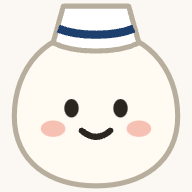
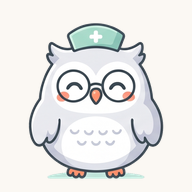
feat: キャラクターをナースキャップのフクロウに（笑顔・困り顔・喜び）、アプリのアイコンも同じ絵に

Changed region(s): [[0.0625, 0.0, 0.9375, 1.0], [0.5, 0.3438, 0.5312, 0.375]]

diff --git a/index.html b/index.html
@@ -2,7 +2,7 @@
 <html lang="ja">
   <head>
     <meta charset="UTF-8" />
-    <link rel="icon" type="image/svg+xml" href="/favicon.svg" />
+    <link rel="icon" type="image/png" href="/favicon.png" />
     <link rel="apple-touch-icon" href="/apple-touch-icon.png" />
     <link rel="manifest" href="/manifest.webmanifest" />
     <meta name="apple-mobile-web-app-title" content="看護トリアージ" />

diff --git a/public/sw.js b/public/sw.js
@@ -21,7 +21,7 @@ const MAX_ASSETS = 80
 const NAVIGATE_TIMEOUT = 4000
 const STATIC_FILES = [
   '/manifest.webmanifest',
-  '/favicon.svg',
+  '/favicon.png',
   '/apple-touch-icon.png',
   '/icon-192.png',
   '/icon-512.png',

diff --git a/src/assets/chara/README.md b/src/assets/chara/README.md
@@ -1,18 +1,24 @@
 # キャラクターの画像
 
-ここに次の3枚を置くと、ビルド時に自動で読み込まれて仮の SVG と差し替わります。
-1枚でも置けば、その表情だけ差し替わります（ないものは仮の SVG のまま）。
+ナースキャップのフクロウ。ユーザーが用意した絵（8つの表情）から、背景を透明にして切り出したもの。
+ここに置いた `normal.png`・`worry.png`・`happy.png` が、ビルド時に自動で読み込まれる（ないものは `Chara.tsx` の仮の SVG）。
 
-| ファイル名   | 表情     | 出る場面                                     |
-| ------------ | -------- | -------------------------------------------- |
-| `normal.png` | ふつう   | 黒・赤の課題がないときのホーム               |
-| `worry.png`  | 心配     | 今は使っていない（あとで使うときのため）     |
-| `happy.png`  | うれしい | 課題がぜんぶ片づいた・完了したときのトースト |
+| ファイル名   | 表情               | 出る場面                                                           |
+| ------------ | ------------------ | ------------------------------------------------------------------ |
+| `normal.png` | 笑顔（にこにこ）   | ふだんのホーム                                                     |
+| `worry.png`  | 困り顔（うーん）   | 締切過ぎ・赤の課題があるときのホーム                               |
+| `happy.png`  | 喜び（やったー！） | 今日のぶんが終わった・課題がぜんぶ片づいた・完了したときのトースト |
 
-- 透過 PNG、正方形（512×512px 推奨）
-- 生成り色（`#fbf8f3`）の背景に乗るので、背景は透過にしてください
+- 透過 PNG、正方形 256×256px（いちばん大きく出すのが 72px なので、iPhone の3倍の画面でも足りる大きさ）
+- どの表情も同じ大きさ・足もとの位置にそろえてある（表情が変わっても、フクロウが動かないように）
+
+## まだ使っていない表情（`extra/`）
+
+`extra/` に、ほかの表情も 512×512px で取ってある（アプリには読み込まれない）。
+応援（`cheer`）・驚き（`idea`）・疲れ（`tired`）・感謝（`thanks`）・焦り（`panic`）と、上の3つの元の大きさのもの。
+使うときは 256px に縮めてこのフォルダに置き、`Chara.tsx` の `Mood` に足す。
 
 ## アプリのアイコン
 
-ブラウザのタブのアイコン（`public/favicon.svg`）と、iPhone のホーム画面のアイコン（`public/apple-touch-icon.png`、180×180px、生成り色の背景）は、仮キャラクターの「ふつうの顔」で作っています。
-`normal.png` を用意したら、この2つも同じ絵に差し替えてください（ホーム画面のアイコンは透過にせず、背景を生成り色 `#fbf8f3` で塗ってください。iOS は透過部分を黒く塗るため）。
+`public/` の `apple-touch-icon.png`（180px）・`icon-192.png`・`icon-512.png`・`icon-maskable-512.png`（丸く切られても欠けないよう小さめ）・`favicon.png`（ブラウザのタブ、64px・透過）は、笑顔の絵から作っている。
+ホーム画面のアイコンは透過にせず、生成り色（`#fbf8f3`）で塗る（iOS は透過部分を黒く塗るため）。

diff --git a/CLAUDE.md b/CLAUDE.md
@@ -44,17 +44,12 @@
 - キーボードが出たら、`Sheet` をキーボードの高さだけ持ち上げ、押した入力欄がシートの中で見える位置までずらす（`keyboardInset.ts`。visualViewport で高さを測る）
 - 長押しで文字選択・iPhone のメニューを出さない（`index.css` で全体に `user-select: none`・`-webkit-touch-callout: none`。入力欄だけ戻す。画像は `pointer-events: none` でタップを外側に渡す）
 
-## キャラクター（いまは仮）
+## キャラクター
 
-- キャラクターは、ホームのいちばん上（今日のぶんの横。顔が変わる）、空いた画面、完了のトーストに出す（吹き出しで話しかけるのはやめた）
-- 絵は**仮の SVG**（丸い体にナースキャップ。十字は使わない）。`src/components/Chara.tsx` の `Placeholder`
-- 本番の絵はユーザーが自分で用意する。`src/assets/chara/{normal,worry,happy}.png`（透過・正方形 512px）を置けば自動で差し替わる。手順は `src/assets/chara/README.md`
-- 絵を勝手に描き起こしたり、別のキャラクターに変えたりしない
-
-## アプリのアイコン（いまは仮）
-
-- `public/favicon.svg` と `public/apple-touch-icon.png`（180×180、生成り色の背景）は、仮キャラクターの「ふつうの顔」
-- `normal.png` が届いたら、この2つも同じ絵に差し替える。ホーム画面用は透過にせず生成り色で塗る（iOS は透過部分を黒くする）
+- ナースキャップのフクロウ（ユーザーが用意した絵）。ホームのいちばん上（今日のぶんの横。顔が変わる）、空いた画面、完了のトーストに出す
+- 表情：ふつう＝笑顔、心配（黒・赤があるとき）＝困り顔、うれしい（今日のぶんが終わった・片づいた・完了）＝喜び。`src/assets/chara/{normal,worry,happy}.png`（透過・256px）。ほかの表情（応援・驚き・疲れ・感謝・焦り）は `src/assets/chara/extra/` に取ってある（アプリには読み込まれない）。くわしくは `src/assets/chara/README.md`
+- 絵は、背景を透明にし、まわりの飾り（キラキラ・音符など）を外して、表情ごとに同じ大きさ・足もとの位置にそろえて切り出した。絵そのものを描き変えたり、別のキャラクターにしたりしない
+- アプリのアイコン（`public/` の apple-touch-icon・icon-192/512・maskable・favicon.png）は笑顔の絵。ホーム画面用は透過にせず生成り色で塗る
 
 ## 実習スケジュール機能（実装済み）
 

diff --git a/SPEC.md b/SPEC.md
@@ -215,7 +215,7 @@ score    = (0.6 × min(ratio, 2)/2 + 0.4 × 1/(1 + max(days, 0))) × w × imp ×
 - **折り返し**：長い1文を折り返させず、ことがらごとに1行に分ける（くわしいページの根拠は「あと約1.6h」／「締切までに使えるのは約3.7h」／太字の「…足りない」）。それでも折り返す文は、文節の切れ目でだけ折り返す（`ui-text` と `Phrase`。BudouX で文節に分ける）。日付や「あと21時間」は途中で切らない。つぎにやるのカードは高さをそろえ、ボタンは下にそろえる。iPhone と同じ WebKit で、360・375・393px の幅で確かめる
 - **フォント**：システムフォント（ヒラギノ → Noto Sans JP）
 - **動き**：`motion.ts` の決まり（0.3秒・16px・ease-out、カードは0.08秒ずつ）。押すと0.15秒で97%に縮む。「視差効果を減らす」の人には控えめにする
-- **キャラクター**：ホームのいちばん上（今日のぶんの横。顔が変わる）、空いた画面、完了のトーストに出す。絵は `src/assets/chara/{normal,worry,happy}.png` に置く（透過 PNG）。ない表情は仮の SVG
+- **キャラクター**：ホームのいちばん上（今日のぶんの横。顔が変わる）、空いた画面、完了のトーストに出す。絵はナースキャップのフクロウ。`src/assets/chara/{normal,worry,happy}.png`（透過 PNG・256px。笑顔・困り顔・喜び）。ない表情は仮の SVG
 - **口調**：やわらかい話し言葉（「〜しよう」「〜だよ」）。カッコ書きの補足を減らす
 - 360px 幅で横スクロールが出ないこと。タップ領域は44px以上。入力欄は16px（iOSでズームさせない）
 - 長押しで文字が選択されたり、iPhone のメニュー（コピー・調べる・リンクのプレビュー・画像の保存）が出たりしないようにする。input・textarea・contenteditable だけは選択・コピー・貼り付けができる

diff --git a/README.md b/README.md
@@ -39,7 +39,7 @@
 
 ## キャラクターの絵
 
-`src/assets/chara/` に `normal.png`（ふつう）・`worry.png`（心配）・`happy.png`（うれしい）を置くと、ビルド時に自動で読み込まれて差し替わります。置いていない表情は仮の SVG のままです。透過 PNG・正方形（512px 推奨）で用意してください（詳しくは [src/assets/chara/README.md](src/assets/chara/README.md)）。
+キャラクターはナースキャップのフクロウです。`src/assets/chara/` の `normal.png`（笑顔）・`worry.png`（困り顔）・`happy.png`（喜び）が、ビルド時に自動で読み込まれます（透過 PNG・256px）。ほかの表情は `extra/` に取ってあります（詳しくは [src/assets/chara/README.md](src/assets/chara/README.md)）。アプリのアイコンも笑顔の絵です。
 
 キャラクターは、ホームのいちばん上（今日のぶんの横。今日のぶんが終わると笑顔、黒・赤があると心配顔）、空いた画面（課題がないときのホーム、未完了がないときの課題）、完了したときのトーストに出ます。
 
